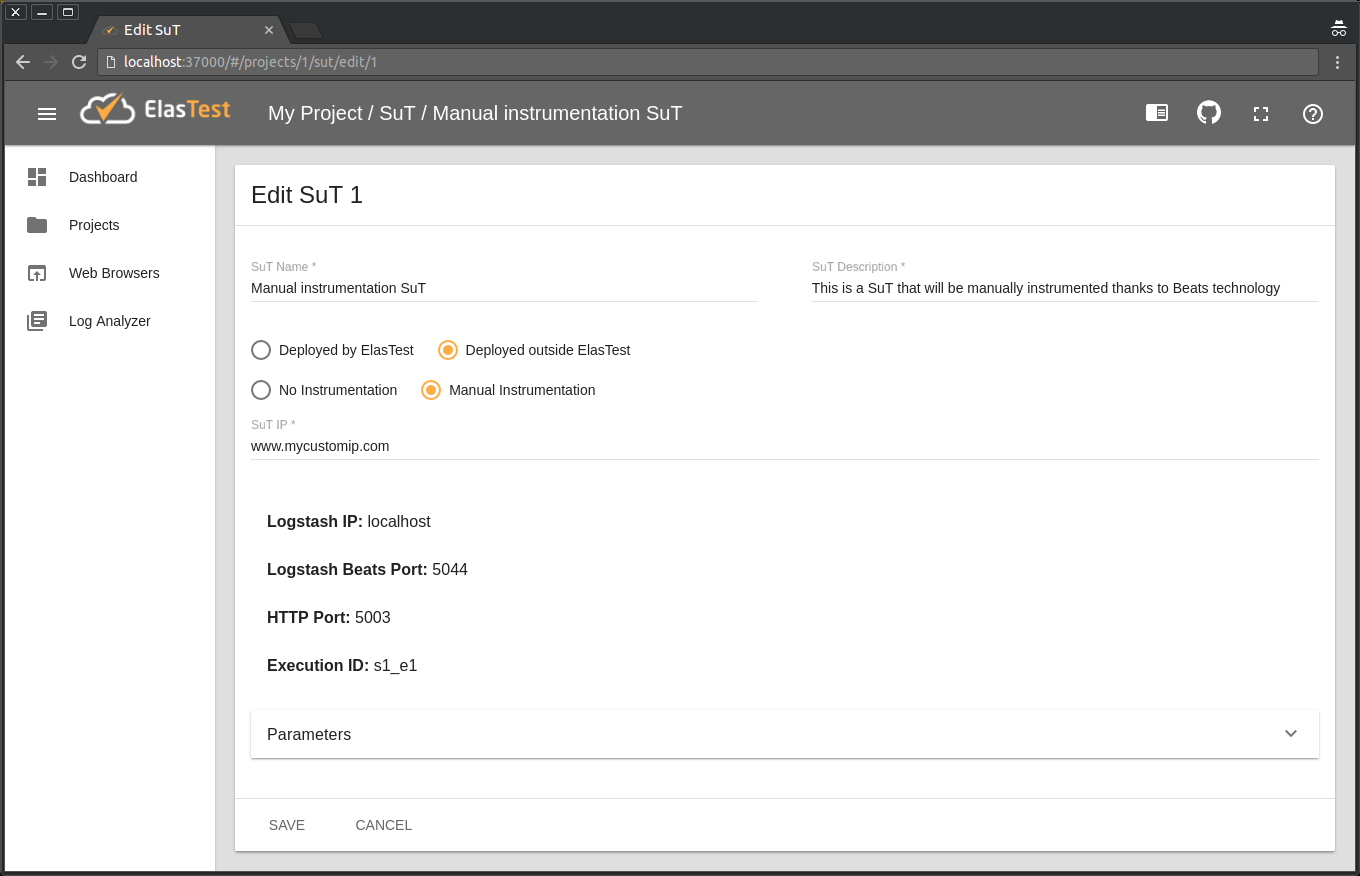
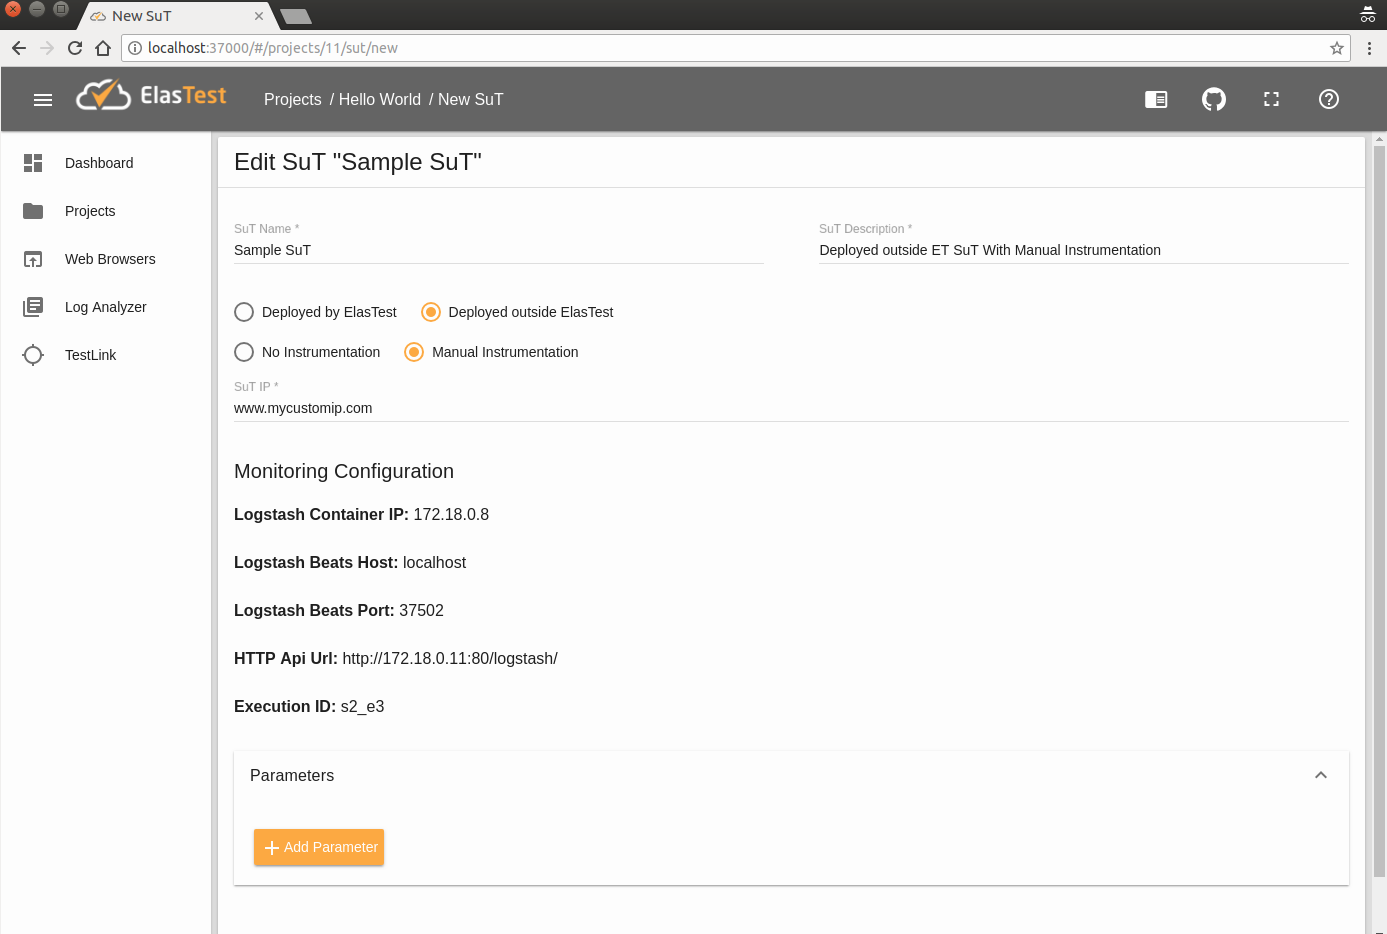
Change images on monitoring/outside-elastest/

Changed region(s): [[0.0, 0.0, 1.0, 1.0]]

diff --git a/docs/monitoring/outside-elastest.md b/docs/monitoring/outside-elastest.md
@@ -29,10 +29,11 @@ To create a SuT ready to be manually instrumented, fill the form as shown in the
 
 Once you click on _Save and get monitoring details_  button, the following configuration parameters will be shown:
 
-- **Logstash IP**: The public host (IP or FQDN) in which Logstash is located.
+- **Logstash Container IP**: The Logstash Container IP.
+- **Logstash Beats Host**: The public host (IP or FQDN) in which Logstash is located for send Beats traces (along with the Beats Port).
 - **Logstash Beats Port**: The port in which Logstash can receive beats monitoring information.
-- **HTTP port**: The port in which Logstash listens for http requests with monitoring information.
-- **Exec ID**: The execution identification value that has to be included in events sent to Logstash. This value is used to identify what events belongs to this SuT.
+- **HTTP Api Url**: The complete URL for send http requests to Logstash with monitoring information.
+- **Execution ID**: The execution identification value that has to be included in events sent to Logstash. This value is used to identify what events belongs to this SuT.
 
 We will be using them in the following section.
 
